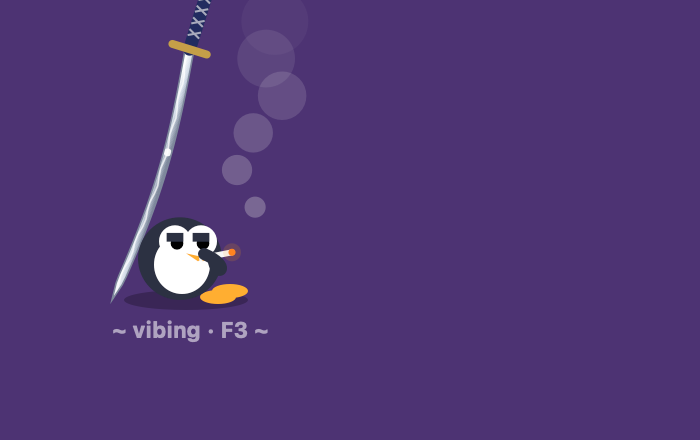
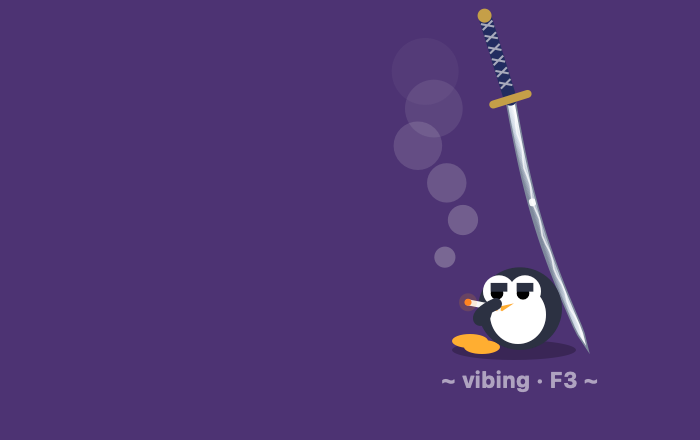
Rest the vibing penguin in the bottom-right corner

diff --git a/boink.swift b/boink.swift
@@ -447,7 +447,7 @@ final class BoinkView: NSView {
 
     func isOverToggle(_ point: CGPoint) -> Bool { toggleFrame.contains(point) || vibeFrame.contains(point) }
 
-    var vibeSeat: CGPoint { CGPoint(x: 90, y: ground) }
+    var vibeSeat: CGPoint { CGPoint(x: bounds.maxX - 90, y: ground) }
 
     func isOverVibingPenguin(_ point: CGPoint) -> Bool { isNear(point, CGPoint(x: vibeSeat.x, y: vibeSeat.y + 22), 36) }
 
@@ -2161,6 +2161,13 @@ extension BoinkView {
         let shellColor = NSColor(calibratedRed: 0.13, green: 0.14, blue: 0.2, alpha: 1)
         let orange = NSColor(calibratedRed: 1, green: 0.62, blue: 0.15, alpha: 1)
 
+        // The scene is drawn facing right, then mirrored so the penguin looks back at the screen from the right corner.
+        NSGraphicsContext.saveGraphicsState()
+        let mirror = NSAffineTransform()
+        mirror.translateX(by: seat.x * 2, yBy: 0)
+        mirror.scaleX(by: -1, yBy: 1)
+        mirror.concat()
+
         let pose = (handleAt, angle)
         let lean: CGFloat = -0.3
         handleAt = CGPoint(x: seat.x - 34 - weapon.length * sin(lean), y: seat.y + weapon.length * cos(lean))
@@ -2253,11 +2260,14 @@ extension BoinkView {
             circle(puff, 3 + t * 16).fill()
         }
 
+        NSGraphicsContext.restoreGraphicsState()
+
         let hint: [NSAttributedString.Key: Any] = [
             .font: NSFont.systemFont(ofSize: 11, weight: .bold),
             .foregroundColor: NSColor.white.withAlphaComponent(0.55),
         ]
-        ("~ vibing · F3 ~" as NSString).draw(at: CGPoint(x: seat.x - 34, y: seat.y - 22), withAttributes: hint)
+        let caption = "~ vibing · F3 ~" as NSString
+        caption.draw(at: CGPoint(x: seat.x - caption.size(withAttributes: hint).width / 2, y: seat.y - 22), withAttributes: hint)
     }
 
     func drawGameOver() {
